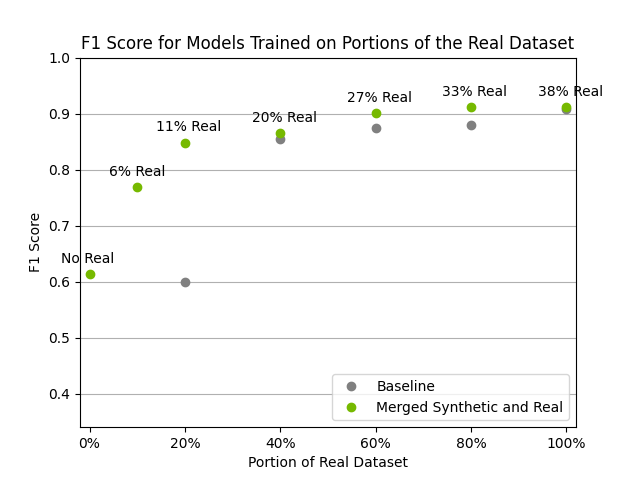
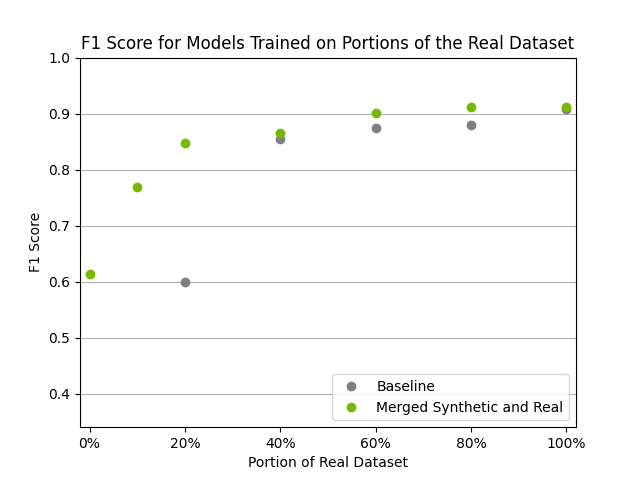
update Classification README

diff --git a/Classification/README.md b/Classification/README.md
@@ -139,7 +139,7 @@ Instead of training the FAN Tiny backbone on synthetic data and real data in sep
 ### The Results
 | <img src="result_merge.png" width="460"> |
 | :--: | 
-| *Classification Accuracy Versus Amount of Real Data. X-Axis is the Portion of the Real Dataset; Text Annotations are the Percentage of the Training Set That Is Real Data.* |
+| *Classification Accuracy Versus Amount of Real Data. All Models Trained with 4000 Synthetic Images and a Percentage of 2429 Real Images.* |
 <!--| *Synthetic Data Validation - Less Than Half of the Real Data is Needed to Achieve Classification Accuracy* | -->
 
 Engineers found that only 20% of Kaggle’s real dataset was required when combined with synthetic data to achieve comparable performance as the full real dataset alone. Model performance topped out at 91% F1 Score using a merged dataset, compared to the model performance of 87% accuracy reported in the published Kaggle* notebook. 
